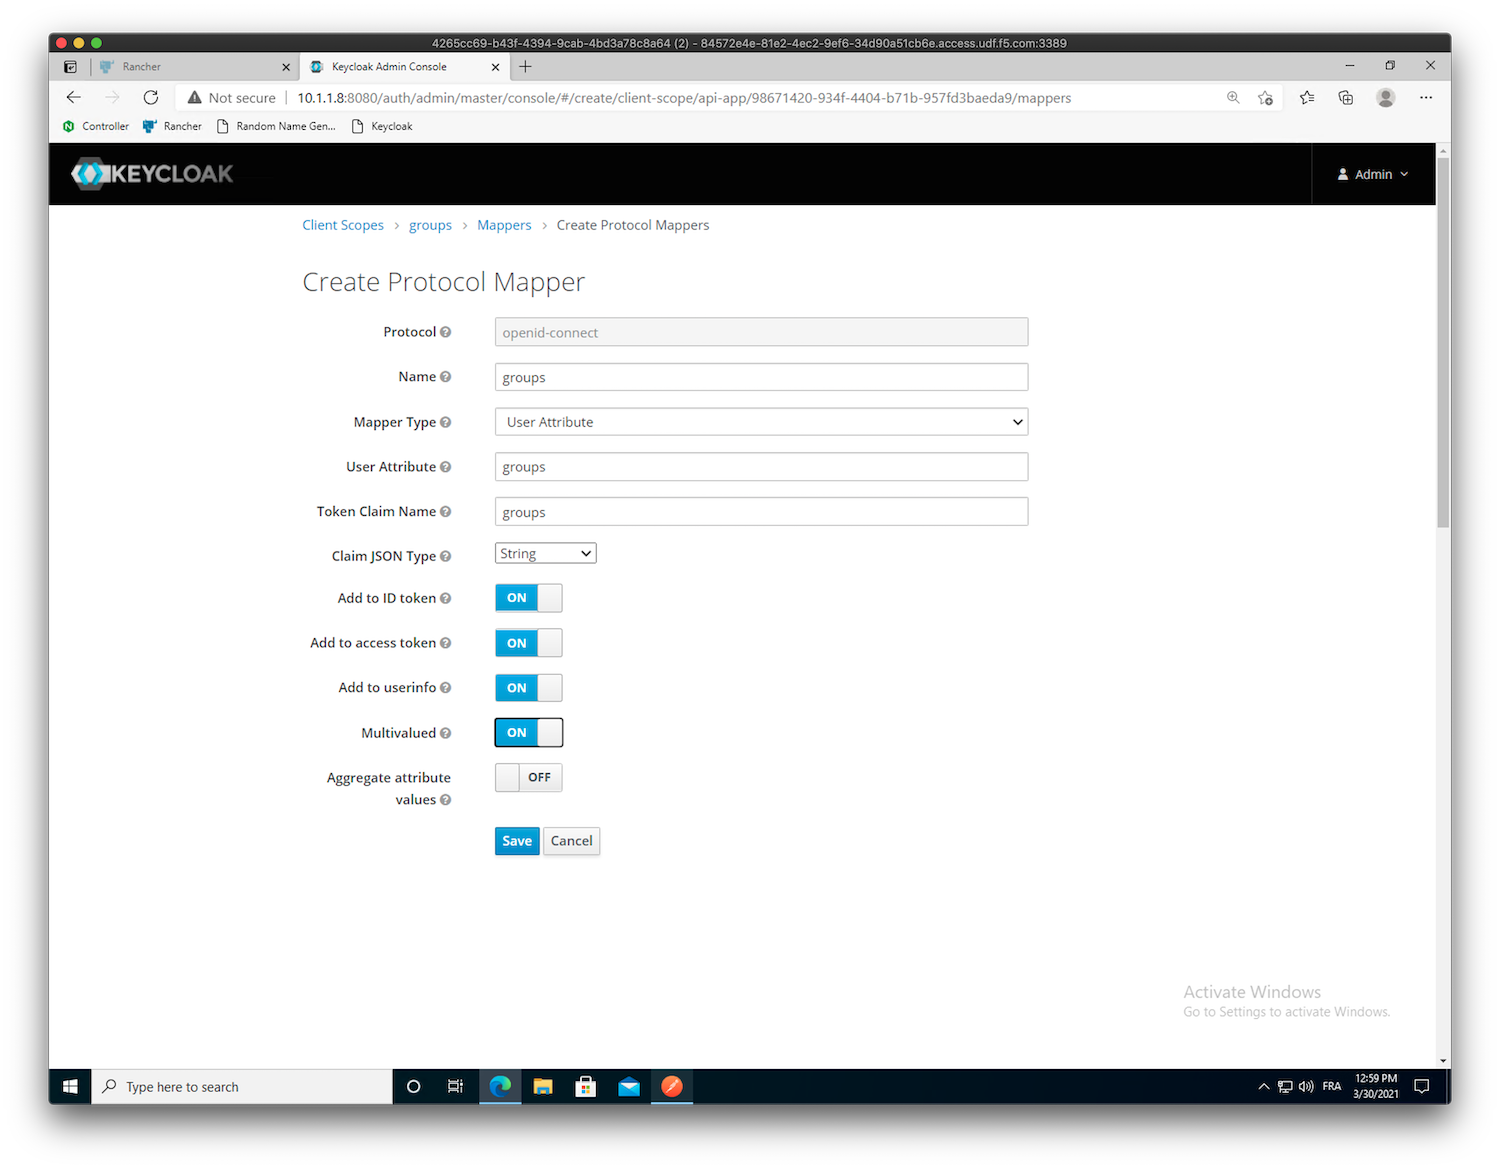
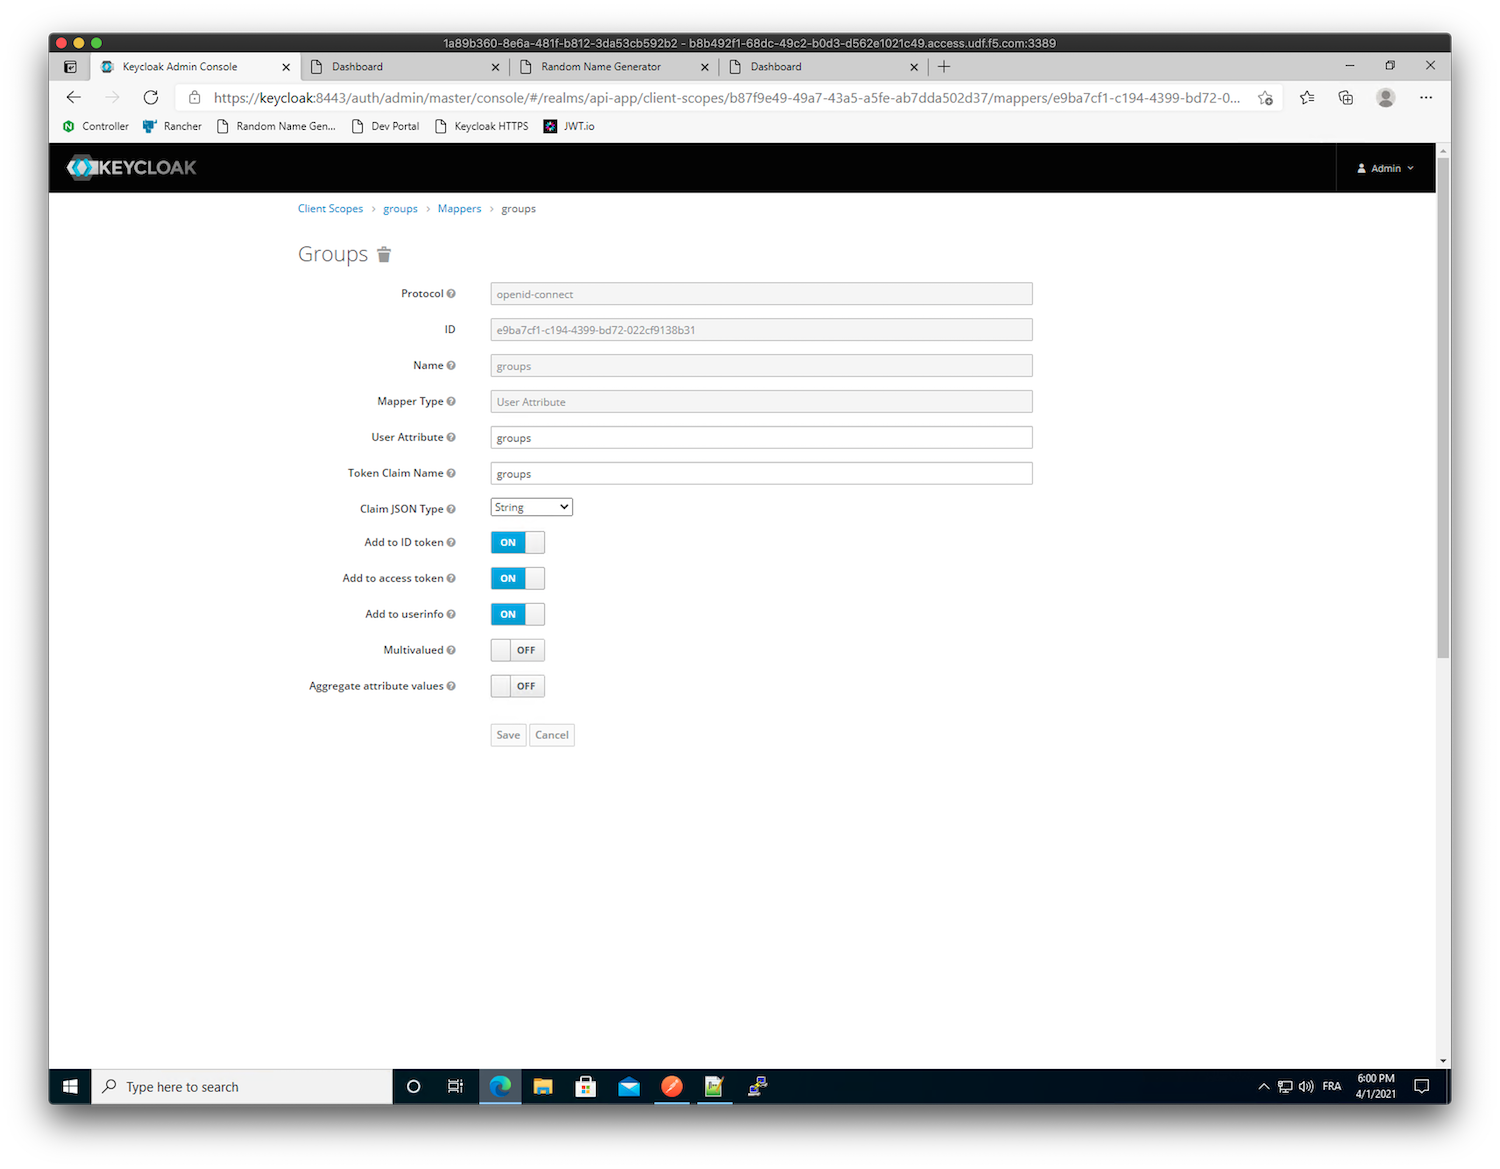
fixes

diff --git a/docs/class6/module4/lab1/lab1.rst b/docs/class6/module4/lab1/lab1.rst
@@ -36,7 +36,7 @@ Configure Keycloak as JWT OIDC token issuer
    .. image:: ../pictures/lab1/clients.png
       :align: center
 
-   .. note:: in order to avoid any mistake during this lab, we created in advance the ``client`` and the ``secret key``
+   .. note:: in order to avoid any mistake during this lab, we created in advance the ``client`` ``my-postman`` and the ``secret key``  ``9cabf36d-8eda-4cf8-a362-ccc982408ba7``
 
 #. In the ``My-postman`` client, click on ``Credentials``. You can notice the secret key we will use to ask for a JWT token in postman.
 #. Click on ``Users`` in the left menu, and click on ``View all users``
@@ -48,14 +48,16 @@ Configure Keycloak as JWT OIDC token issuer
 
 #. Click on ``matt`` user ID to edit it.
 #. In the ``Attributes`` tab, add a new key ``groups`` and value ``employee``
-#. Click ``Add`` and ``Save`` 
+#. Click ``Add`` and ``Save``
+#
+   .. warning:: You have to click on ``Add`` to add the attribut, and on ``Save`` to save the user settings.
 
    .. image:: ../pictures/lab1/matt_attributes.png
       :align: center
 
 #. Now, we create our own scope ``groups`` so that a claim is added into every JWT token with the groups attribute value(s)
     #. Click on ``Client Scopes`` and ``Create``
-    #. Name it ``groups`` and click on ``Mappers`` tab
+    #. Name it ``groups``, click ``Save`` and click on ``Mappers`` tab
     #. Click ``Create`` in order to create a new mapper. Configure as below, the mapper type is ``User Attribute``
 
        .. image:: ../pictures/lab1/mapper.png
@@ -78,7 +80,7 @@ Configure Keycloak as JWT OIDC token issuer
 
        .. note:: As you can notice, there is no ``groups`` claim in this JWT token
 
-    #. Click on the ``Setup`` sub-meunu , and add the ``groups`` scope into the ``Assigned Default Client Scopes``
+    #. Click on the ``Setup`` sub-menu , and add the ``groups`` scope into the ``Assigned Default Client Scopes``
     #. Click on ``Evaluate`` sub-menu, and check the claim exists with the group attribute value ``employee``
 
 .. warning :: Congrats, we are good now to configure Nginx Controller in order to check the groups claim values to grant or not access to API endpoints.

diff --git a/docs/class6/module3/lab1/lab1.rst b/docs/class6/module3/lab1/lab1.rst
@@ -20,13 +20,15 @@ Steps to publish the Version v1.0 of the API
 Create the API Definition
 =========================
 
-#. In the controller UI, in the menu ``APIs``, create an ``API Definition``
-    #. Name: api-sentence
-    #. Select ``OpenAPI Specification`` and ``Copy and paste specification text``
-    #. Copy and paste the YAML content from https://app.swaggerhub.com/apis/F5EMEASSA/API-Sentence/1.0
-    #. Verify the version set by the controller is ``1.0``. This information is extracted from the Spec file
-    #. Click ``Next``, and you can notice the controller imported all ``PATH`` and ``METHODS`` from the spec file.
-    #. click ``Submit``
+#. In the controller UI, in the menu ``APIs``, create an ``API Version``
+   #. Click on ``Create API Version``
+   #. First, you need to create an ``API Definition``, to do so, click on ``CREATE NEW`` under the API Definition selection (which is empty)
+      #. Name: ``api-sentence``, and click ``Submit``
+   #. Select ``OpenAPI Specification`` and ``Copy and paste specification text``
+   #. Copy and paste the YAML content from https://app.swaggerhub.com/apis/F5EMEASSA/API-Sentence/1.0
+   #. Verify the version set by the controller is ``1.0``. This information is extracted from the Spec file
+   #. Click ``Next``, and you can notice the controller imported all ``PATH`` and ``METHODS`` from the spec file.
+   #. click ``Submit``
 
    .. note:: At this moment of the configuration, the Controller knows the API paths and methods, but does not know where to proxy the traffic to.
 
@@ -42,8 +44,7 @@ Create a Published API for v1.0
 ===============================
 
 #. Now, let's publish our API version v1.0. Click on ``Add Published API``
-    #. API Definition: ``Select the previous created definition``
-    #. Click ``Next``
+    #. Name: ``api-sentence-v1``, click ``Next``
     #. Environment: ``env_prod``
     #. App: ``api-sentence-app`` (already created by me)
     #. Gateways: ``apigw``

diff --git a/docs/class6/module4/lab2/lab2.rst b/docs/class6/module4/lab2/lab2.rst
@@ -3,8 +3,6 @@ Step 8 - Add Rate Limiting protection
 
 In this lab, we will protect the API endpoint with a Rate Limiting policy. To do so, we will limit per authenticated user. In the previous lab, we enable conditional acces in front of the ``colors`` API endpoint. Now we will add Rate Limiting policy.
 
-.. warning:: As you will see, the API Management module in Nginx Controller, does not have the same Rate Limiting capabilities than standalone NGINX Plus instance. For instance, we can not Rate Limit based on JWT claims. BIG-IP APM can be considered for such use case in order to add Advanced Authorization and Rate Limiting policies.
-
 Steps to enable Rate Limiting protection on COLORS API Endpoint
 ***************************************************************
 
@@ -29,8 +27,8 @@ Steps to enable Rate Limiting protection on COLORS API Endpoint
 
 |
 
-Simulate too many request from the client
-*****************************************
+Simulate too many requests from the client
+******************************************
 
 #. RDP to Win10 VM as user / user
 #. Open Postman and collection ``API Sentence Generator v3``, select the previous request ``GET Colors v3``

diff --git a/docs/class6/module2/lab1/lab1.rst b/docs/class6/module2/lab1/lab1.rst
@@ -17,13 +17,20 @@ Steps:
    .. image:: ../pictures/lab1/create-instance.png
       :align: center
 
-#. SSH or WEBSSH to ``Nginx-1`` instance
-#. Paste de curl command and execute it
+#. SSH or WEBSSH to ``Nginx-1 - API Gw`` instance
+#. Paste de curl command and execute it. Enter ``y`` for every confirmation.
 #. After few seconds, the command will succeed and the instance will appear in the controller.
 #. In the Controller GUI, click ``close`` if you are still in the instance creation page, and look at your first instance adopted by the controller
 
    .. image:: ../pictures/lab1/adopted-instance.png
       :align: center
+
+   .. warning:: Wait till the status changes from ``Configuring`` to ``runnnig``. If the status is stuck in ``Configuring`` state, force the agent to start in the ``nginx-1`` instance.
+
+      .. code-block:: bash
+
+         sudo service nginx restart
+         sudo service controller-agent restart
 
 .. note:: This instance can now be used as a ``Gateway``
 

diff --git a/docs/class6/module3/lab3/lab3.rst b/docs/class6/module3/lab3/lab3.rst
@@ -29,7 +29,7 @@ Let's deploy LOCATIONS v3.0 micro-service like a DevOps.
    .. code-block:: bash
 
       sudo su
-      kubectl apply -f attributs_locations_v3.yaml -n api
+      kubectl apply -f /home/ubuntu/k3s/attributs_locations_v3.yaml -n api
 
    .. note:: As you can notice, this micro-service is deployed in the same NameSpace as other WORDS micro-service (api), and the previous version of the ``LOCATIONS`` is stil there, because currently used by the current clients.
 
@@ -87,7 +87,7 @@ Publish the version 3.0 of the API
       :align: center
 
 #. Start by setting the ``Base Path``. This is the path to differentiate the different Published API. Set with ``/v3`` and check the box ``Strip Base Path`` so tha the backend app does not receive this Path.
-#. Name : api-sentence-v3
+#. Name : ``api-sentence-v3``
 #. Click ``Next``
 #. Set the Environment, the App and the Gateway like the version v1.0
 

diff --git a/docs/class6/module1/lab2/lab2.rst b/docs/class6/module1/lab2/lab2.rst
@@ -50,7 +50,7 @@ I prepared a YAML manifest file ``attributs_without_colors.yaml``, and please se
 **Steps :**
 
 #. RDP to the Win10 Jumphost with ``user:user`` as credentials
-#. SSH from jumphost commandline ``ssh ubuntu@10.1.1.8`` (or WebSSH and ``cd /home/ubuntu/``) to Docker (k3s + Rancher)
+#. SSH to ``Docker (k3s + Rancher)`` VM
     #. Run ``sudo su``
     #. Run this command ``kubectl apply -f /home/ubuntu/k3s/attributs_without_colors.yaml -n api``
     #. Run this command ``kubectl apply -f /home/ubuntu/k3s/generator-direct.yaml -n api``

diff --git a/docs/class6/module2/lab2/lab2.rst b/docs/class6/module2/lab2/lab2.rst
@@ -11,7 +11,7 @@ Steps:
     #. Name: ``apigw``
     #. Environment: ``env_prod``
     #. Placement: ``select here your nginx1 instance``
-    #. Hostname: http://api.name-generator.com
+    #. Hostname: http://api.name-generator.com, and click ``Done``
     #. Click ``Submit``
 
     .. note:: The hostname value is the listener. This gateway will be dedicated for the API FQDN, so we set this FQDN at the Gateway level.

diff --git a/docs/class6/module4/module4.rst b/docs/class6/module4/module4.rst
@@ -1,7 +1,9 @@
 Module 4 - Add security controls
 ################################
 
+.. note:: For your information, in this lab, we will focus on NGINX Controller capabilties. If you want more granularity on the Authentication and Authorization, BIG-IP APM can be considered.
 
+   With its Visual Policy Editor, APM can adapt the Authorization with a deeper granularity.
 
 .. toctree::
    :maxdepth: 1

diff --git a/docs/class6/module3/lab2/lab2.rst b/docs/class6/module3/lab2/lab2.rst
@@ -68,7 +68,7 @@ Update the API Definition with the Version v2.0
 
 #. Click ``Next`` and ``Submit``
 
-   .. note:: You can notice one more ``resource`` -> Resources : 10
+   .. note:: You can notice 2 more ``resource`` -> Resources : 10
 
       .. image:: ../pictures/lab2/10resources.png
          :align: center
